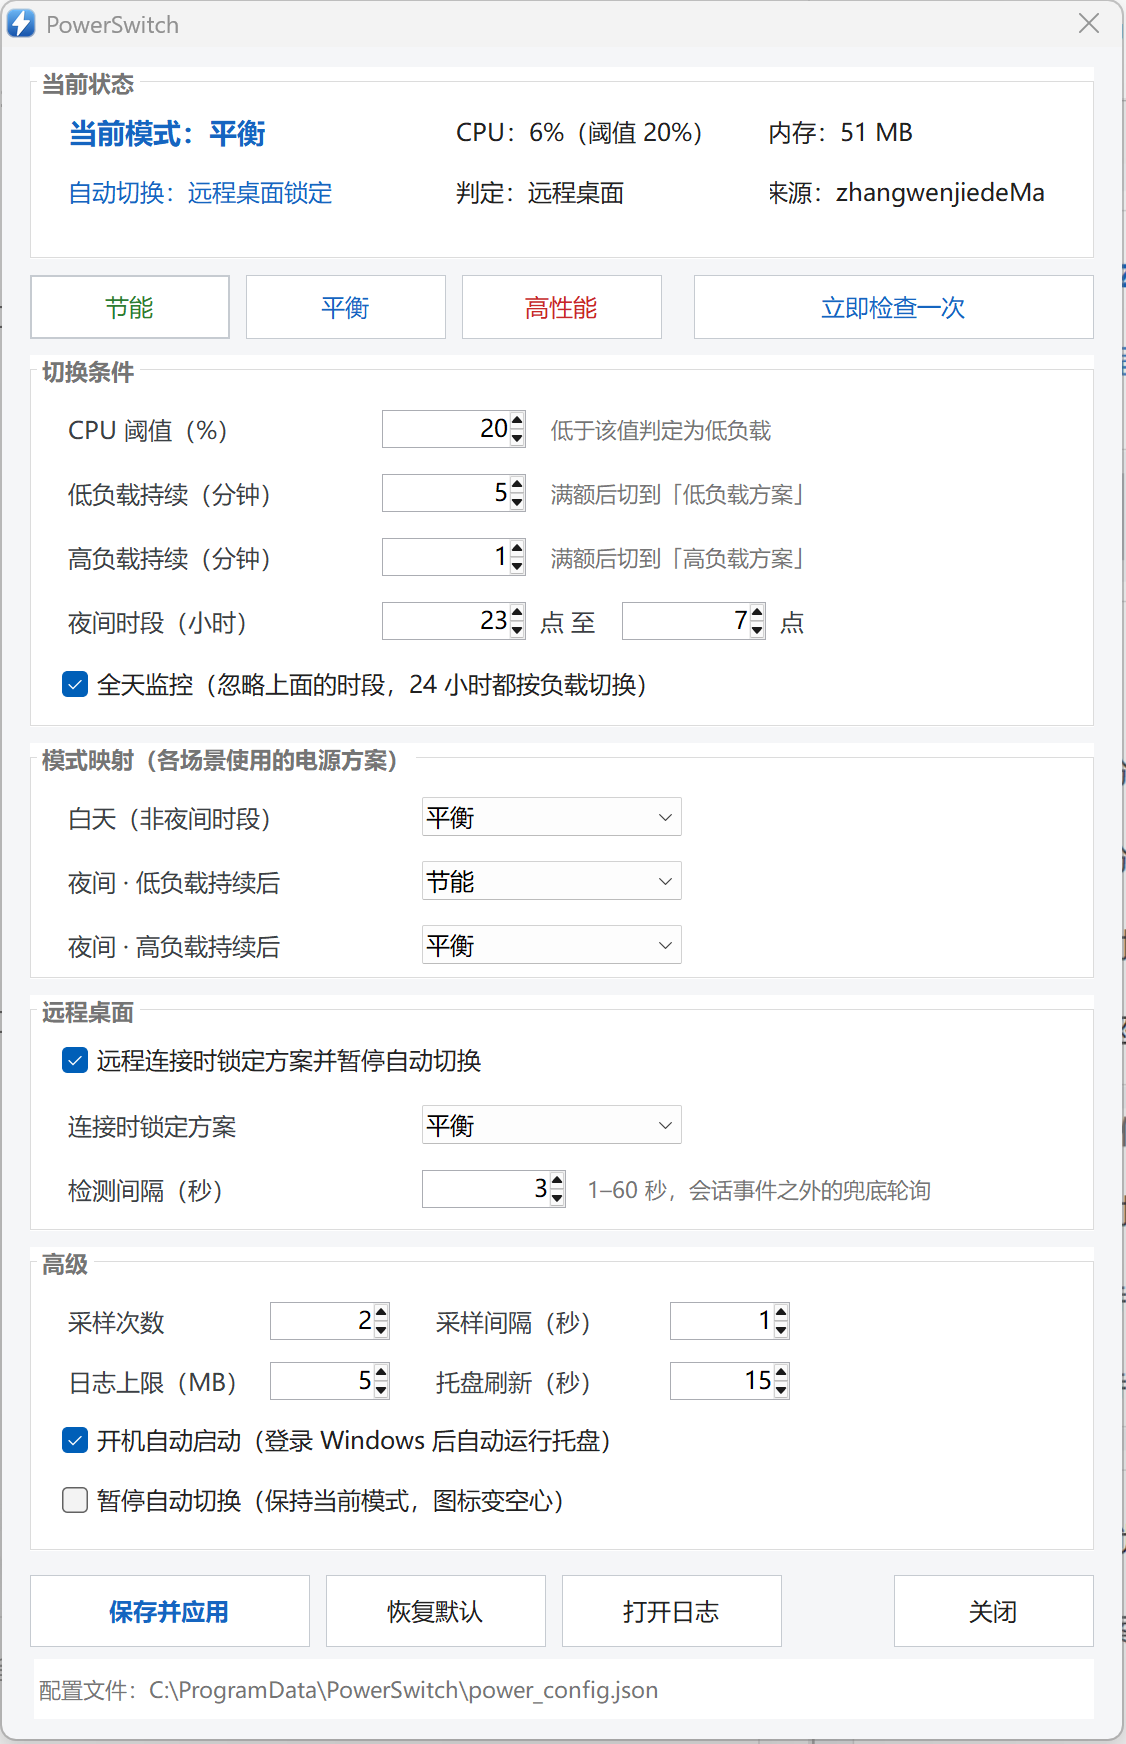
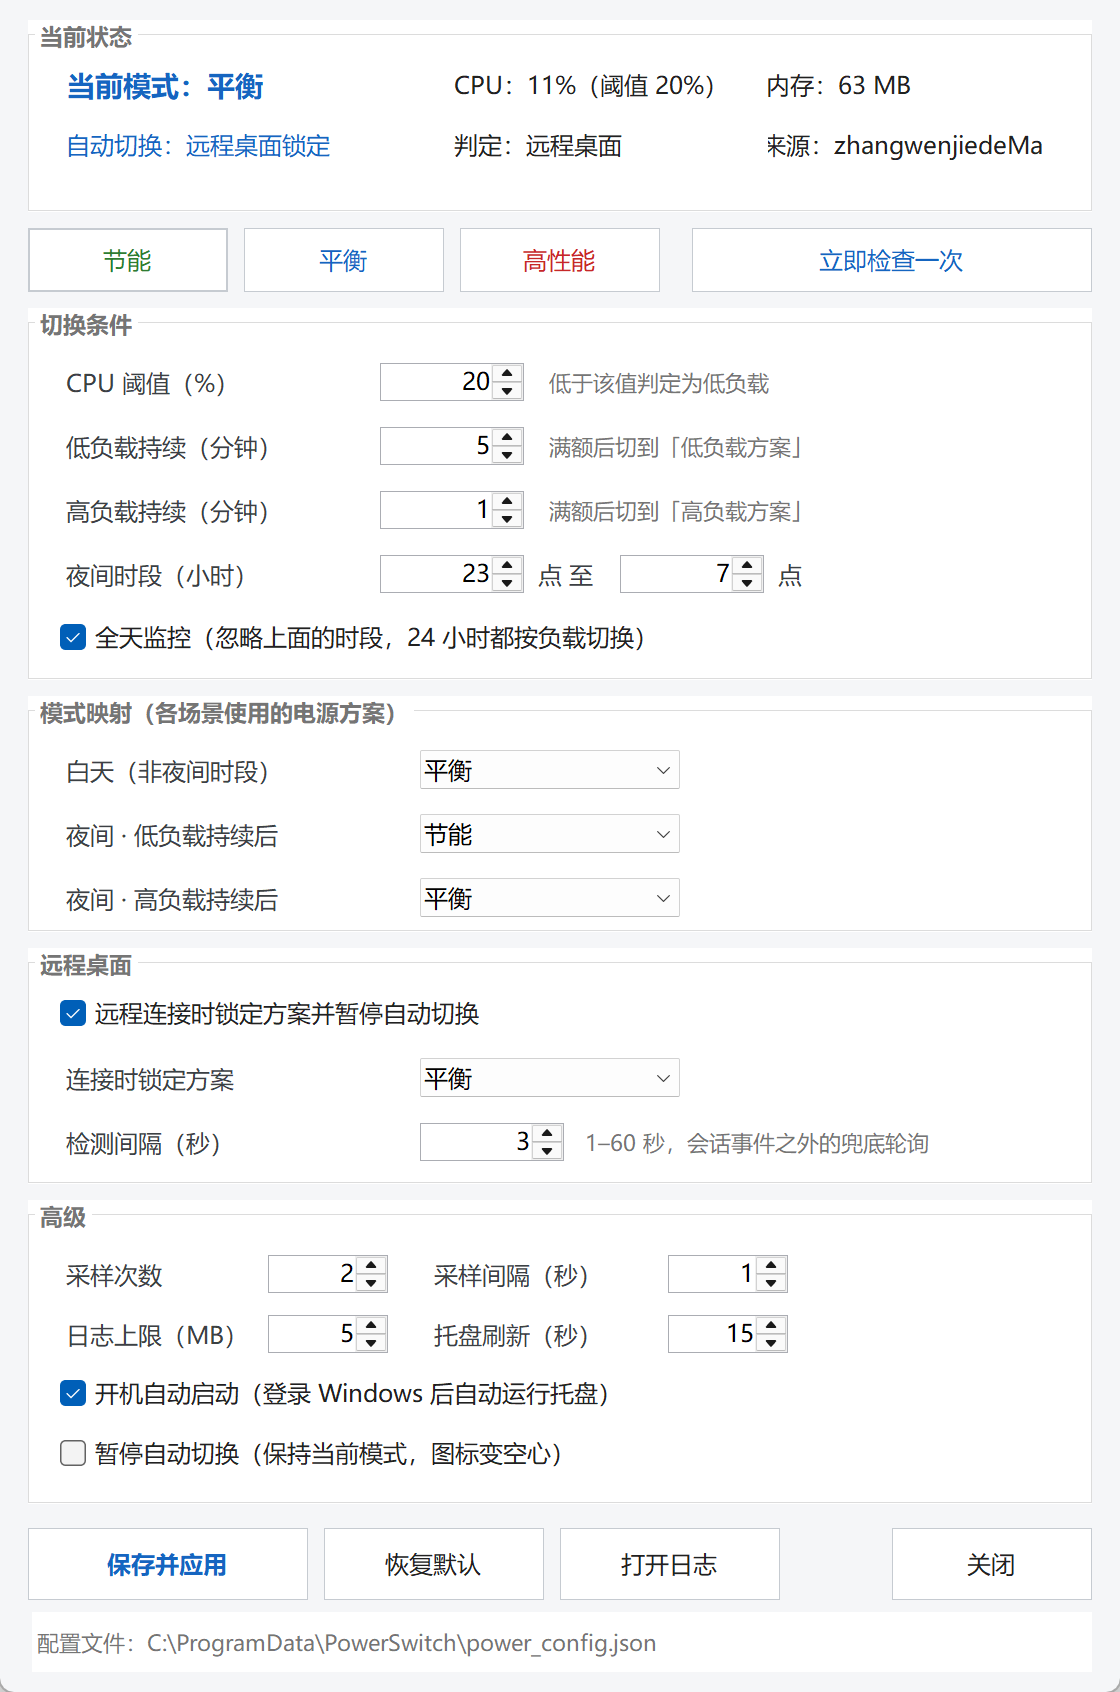
feat!: 迁移到 .NET 8（框架依赖 + 单文件发布）
运行时从 .NET Framework 4.0 迁到 net8.0-windows：

- src/PowerSwitch.csproj 改为 SDK 风格，TargetFramework=net8.0-windows
- 新增 watchdog/PowerSwitchWatchdog.csproj，看门狗一并迁移
- 删除手写的 AssemblyInfo.cs，版本与描述移入 csproj
- 构建脚本改为两次 dotnet publish，不再直接调用 Framework 自带编译器

高 DPI 配置方式随运行时改变：.NET 6+ 的 WinForms 要求走
Application.SetHighDpiMode(HighDpiMode.SystemAware)，清单里的
dpiAware/dpiAwareness 会和运行时互相覆盖并触发 WFAC010，已移除。
SystemAware 语义与原来一致，200% 下窗口仍是 1120x1692 客户区。

另外把启动横幅的运行时描述从硬编码改为
RuntimeInformation.FrameworkDescription，日志里现在会显示实际版本。

发布配置为框架依赖 + PublishSingleFile：
  PowerSwitch.exe         1.15 MB（原 866 KB）
  PowerSwitchWatchdog.exe  165 KB（原 11 KB）
目标机需装 .NET 8 Desktop Runtime（机器级安装，SYSTEM 身份的看门狗要用）。

实测：编译零告警；RDP 连接锁定平衡正常；强杀托盘后看门狗 16 秒内
在会话 3 重建；设置窗口 200% DPI 下版式与文字均正常。

diff --git a/src/Program.cs b/src/Program.cs
@@ -2,6 +2,7 @@ using System;
 using System.Diagnostics;
 using System.IO;
 using System.Reflection;
+using System.Runtime.InteropServices;
 using System.Threading;
 using System.Windows.Forms;
 
@@ -17,6 +18,19 @@ namespace PowerSwitch
         [STAThread]
         private static void Main(string[] args)
         {
+            // 必须在创建任何窗口句柄之前调用。SystemAware 等价于旧清单里的
+            // dpiAware=true + dpiAwareness=system：程序自己按真实 DPI 缩放，
+            // 否则 200% 屏幕上 Windows 会把整窗按 96dpi 渲染再位图放大，文字发虚。
+            try
+            {
+                Application.SetHighDpiMode(HighDpiMode.SystemAware);
+            }
+            catch (Exception ex)
+            {
+                Logger.Init(Paths.LogFile, 5);
+                Logger.Warn("设置 DPI 模式失败（继续启动）: " + Logger.Describe(ex));
+            }
+
             bool createdNew = false;
             Mutex mutex = null;
             try
@@ -64,7 +78,7 @@ namespace PowerSwitch
             try
             {
                 string version = Assembly.GetExecutingAssembly().GetName().Version.ToString();
-                Logger.Info("========== PowerSwitch " + version + " (C# / .NET Framework) ==========");
+                Logger.Info("========== PowerSwitch " + version + " (" + RuntimeInformation.FrameworkDescription + ") ==========");
                 Logger.Info("工作目录: " + Paths.DataDir);
                 Logger.Info("会话 ID: " + Process.GetCurrentProcess().SessionId);
 
